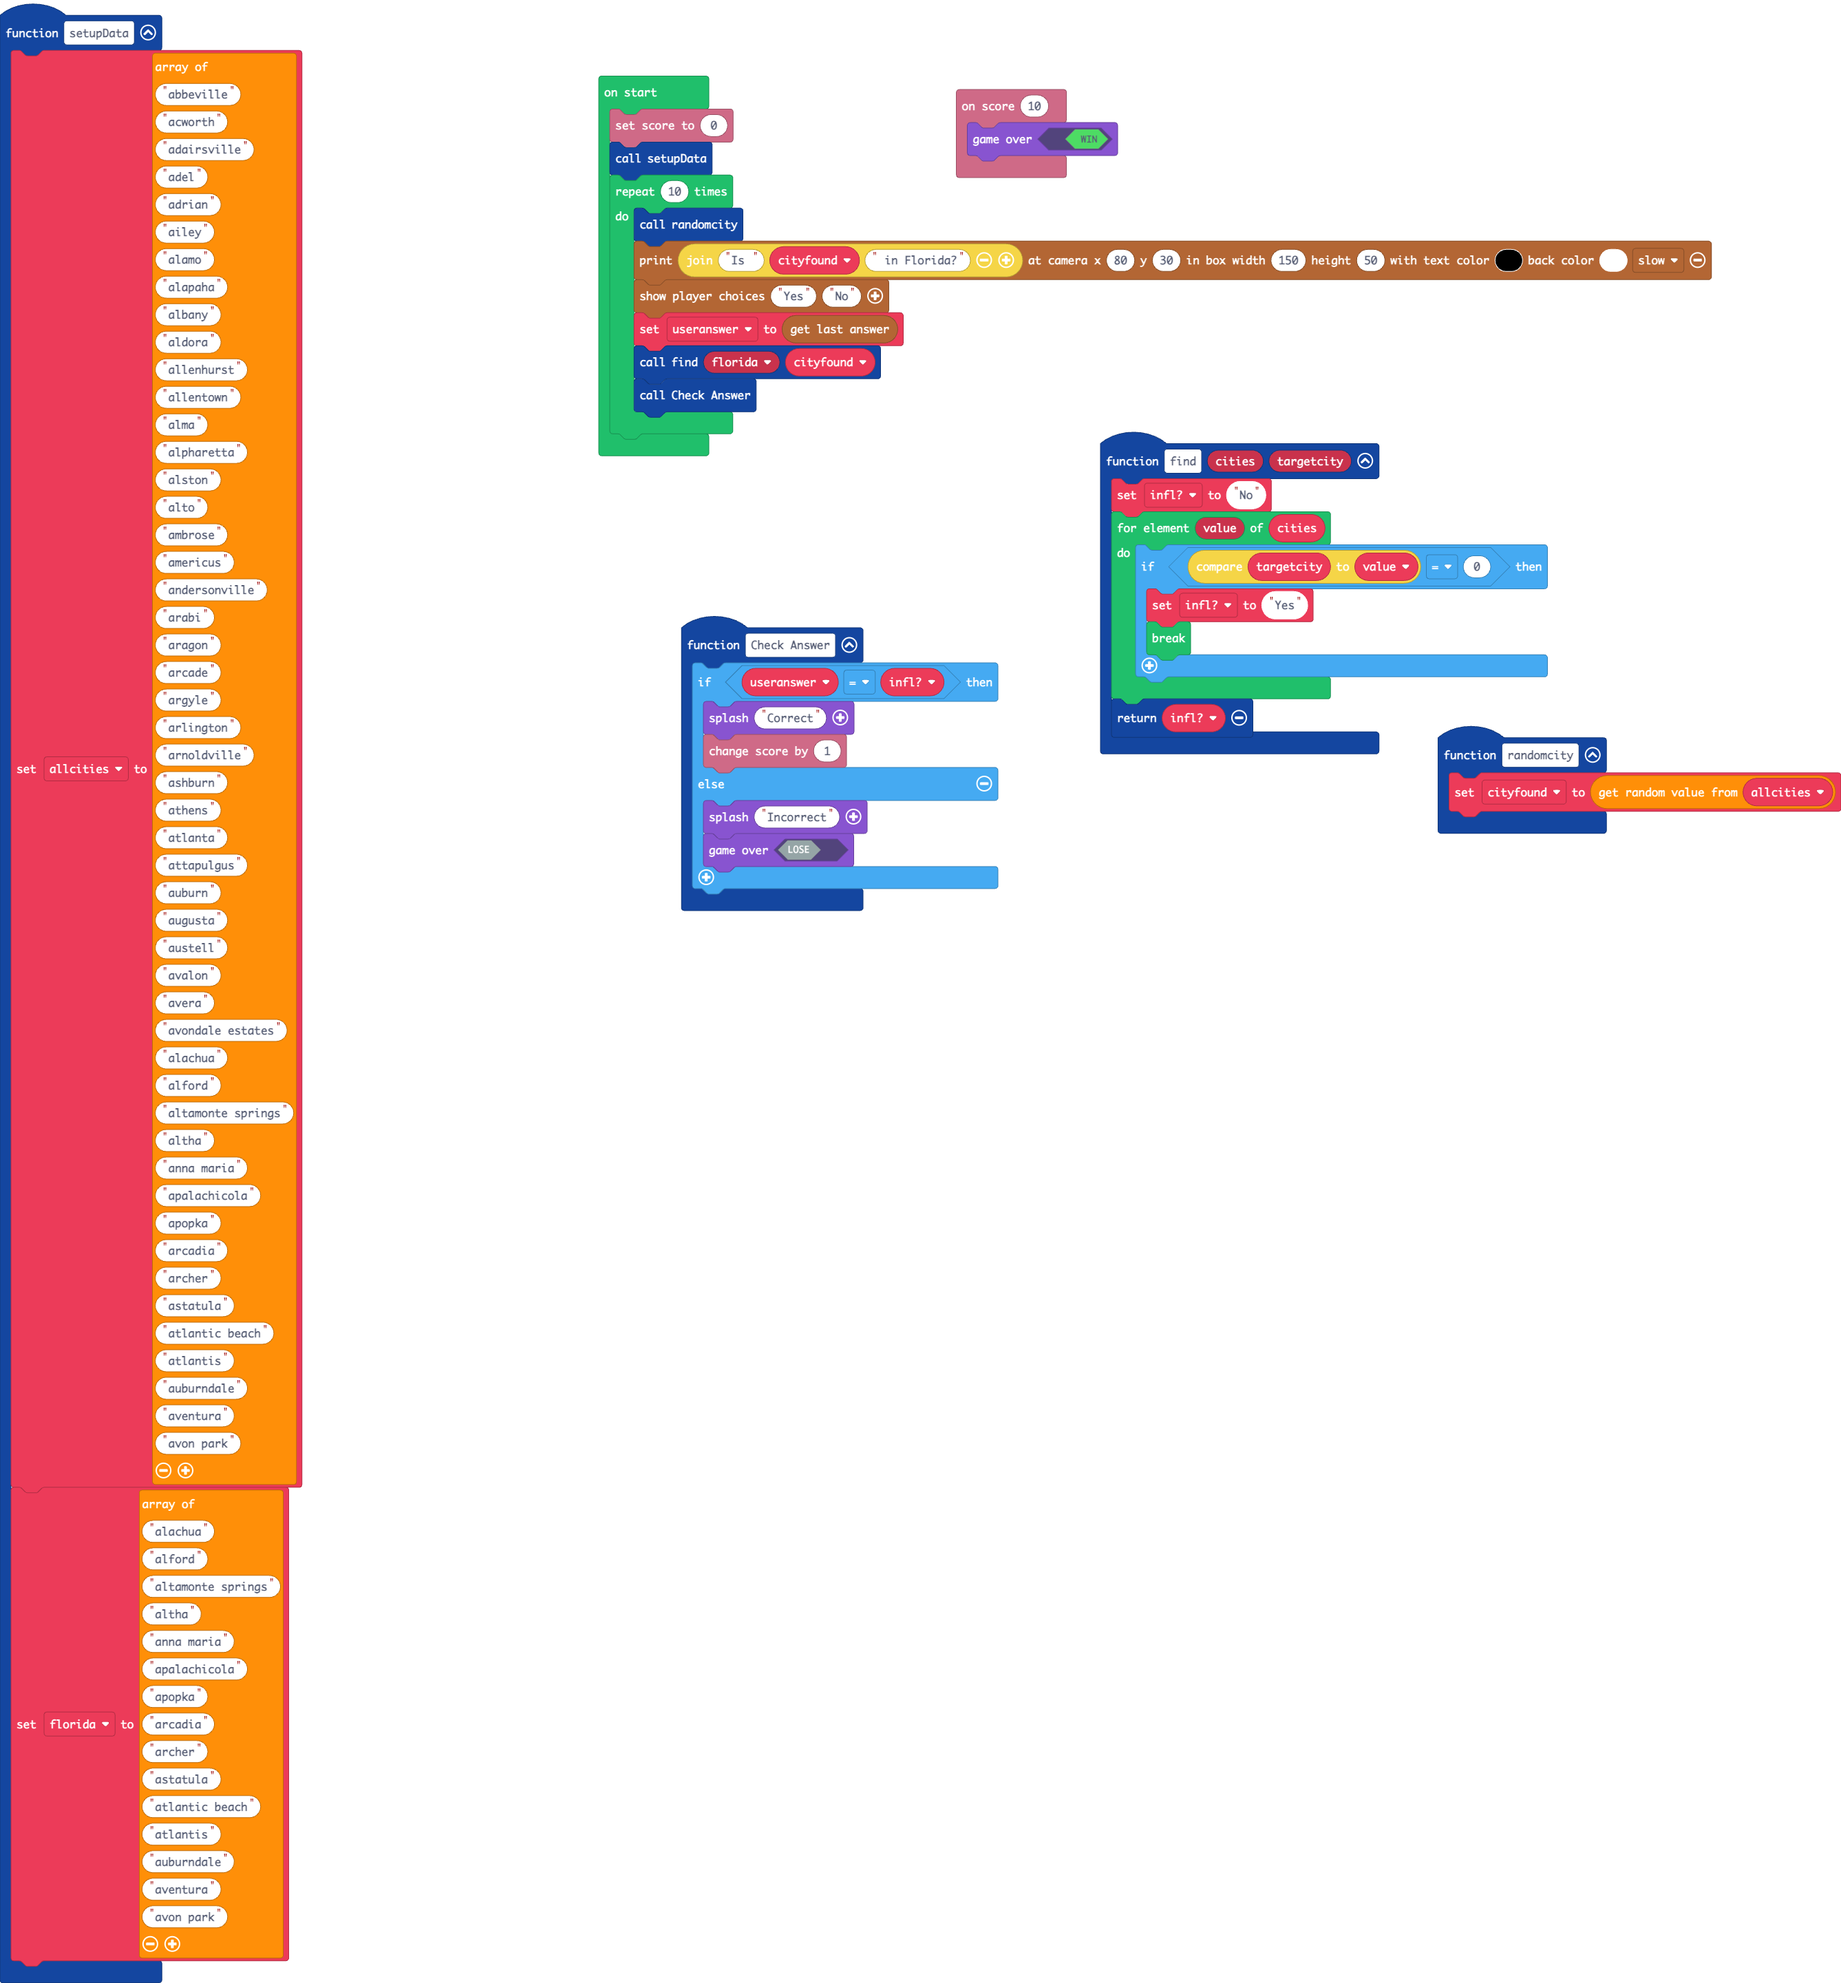
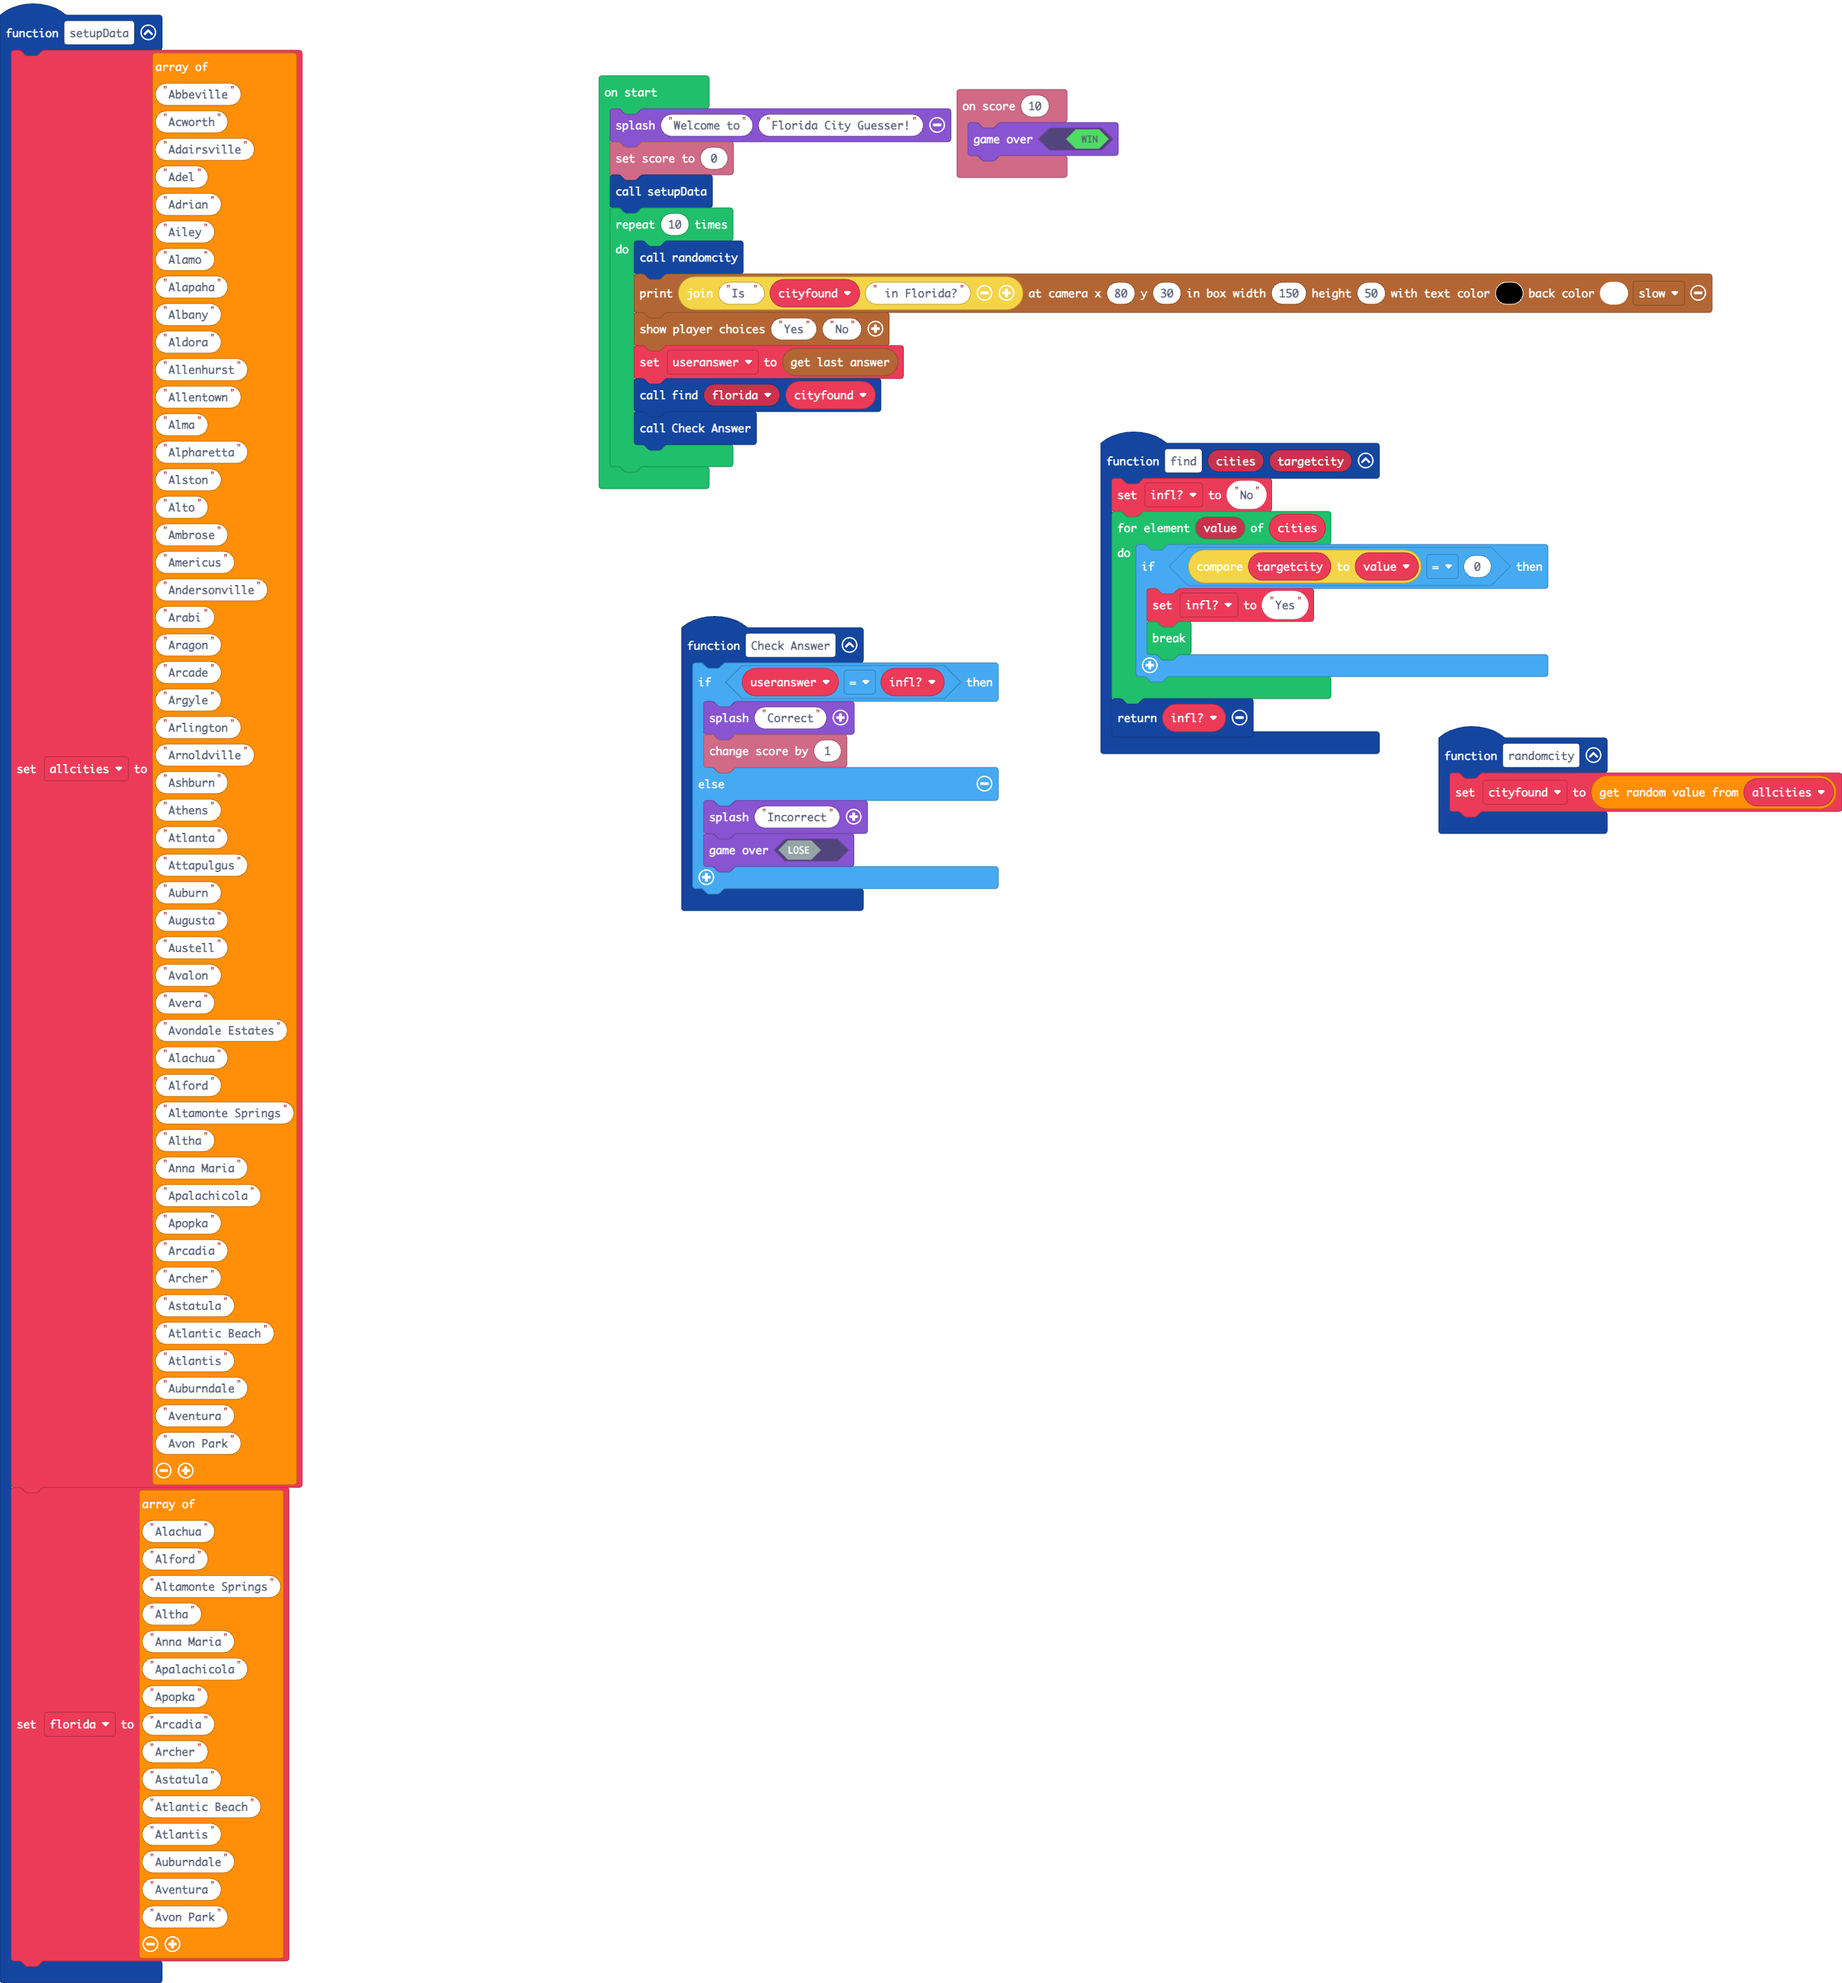
Update main.blocks, main.ts

Changed region(s): [[0.3103, 0.0312, 0.9308, 0.2499], [0.6206, 0.2187, 0.7757, 0.3124]]

diff --git a/main.ts b/main.ts
@@ -1,72 +1,72 @@
 function setupData () {
     allcities = [
-    "abbeville",
-    "acworth",
-    "adairsville",
-    "adel",
-    "adrian",
-    "ailey",
-    "alamo",
-    "alapaha",
-    "albany",
-    "aldora",
-    "allenhurst",
-    "allentown",
-    "alma",
-    "alpharetta",
-    "alston",
-    "alto",
-    "ambrose",
-    "americus",
-    "andersonville",
-    "arabi",
-    "aragon",
-    "arcade",
-    "argyle",
-    "arlington",
-    "arnoldville",
-    "ashburn",
-    "athens",
-    "atlanta",
-    "attapulgus",
-    "auburn",
-    "augusta",
-    "austell",
-    "avalon",
-    "avera",
-    "avondale estates",
-    "alachua",
-    "alford",
-    "altamonte springs",
-    "altha",
-    "anna maria",
-    "apalachicola",
-    "apopka",
-    "arcadia",
-    "archer",
-    "astatula",
-    "atlantic beach",
-    "atlantis",
-    "auburndale",
-    "aventura",
-    "avon park"
+    "Abbeville",
+    "Acworth",
+    "Adairsville",
+    "Adel",
+    "Adrian",
+    "Ailey",
+    "Alamo",
+    "Alapaha",
+    "Albany",
+    "Aldora",
+    "Allenhurst",
+    "Allentown",
+    "Alma",
+    "Alpharetta",
+    "Alston",
+    "Alto",
+    "Ambrose",
+    "Americus",
+    "Andersonville",
+    "Arabi",
+    "Aragon",
+    "Arcade",
+    "Argyle",
+    "Arlington",
+    "Arnoldville",
+    "Ashburn",
+    "Athens",
+    "Atlanta",
+    "Attapulgus",
+    "Auburn",
+    "Augusta",
+    "Austell",
+    "Avalon",
+    "Avera",
+    "Avondale Estates",
+    "Alachua",
+    "Alford",
+    "Altamonte Springs",
+    "Altha",
+    "Anna Maria",
+    "Apalachicola",
+    "Apopka",
+    "Arcadia",
+    "Archer",
+    "Astatula",
+    "Atlantic Beach",
+    "Atlantis",
+    "Auburndale",
+    "Aventura",
+    "Avon Park"
     ]
     florida = [
-    "alachua",
-    "alford",
-    "altamonte springs",
-    "altha",
-    "anna maria",
-    "apalachicola",
-    "apopka",
-    "arcadia",
-    "archer",
-    "astatula",
-    "atlantic beach",
-    "atlantis",
-    "auburndale",
-    "aventura",
-    "avon park"
+    "Alachua",
+    "Alford",
+    "Altamonte Springs",
+    "Altha",
+    "Anna Maria",
+    "Apalachicola",
+    "Apopka",
+    "Arcadia",
+    "Archer",
+    "Astatula",
+    "Atlantic Beach",
+    "Atlantis",
+    "Auburndale",
+    "Aventura",
+    "Avon Park"
     ]
 }
 function find (cities: string[], targetcity: string) {
@@ -99,6 +99,7 @@ let allcities: string[] = []
 let florida: string[] = []
 let useranswer = ""
 let cityfound = ""
+game.splash("Welcome to", "Florida City Guesser!")
 info.setScore(0)
 setupData()
 for (let index = 0; index < 10; index++) {
